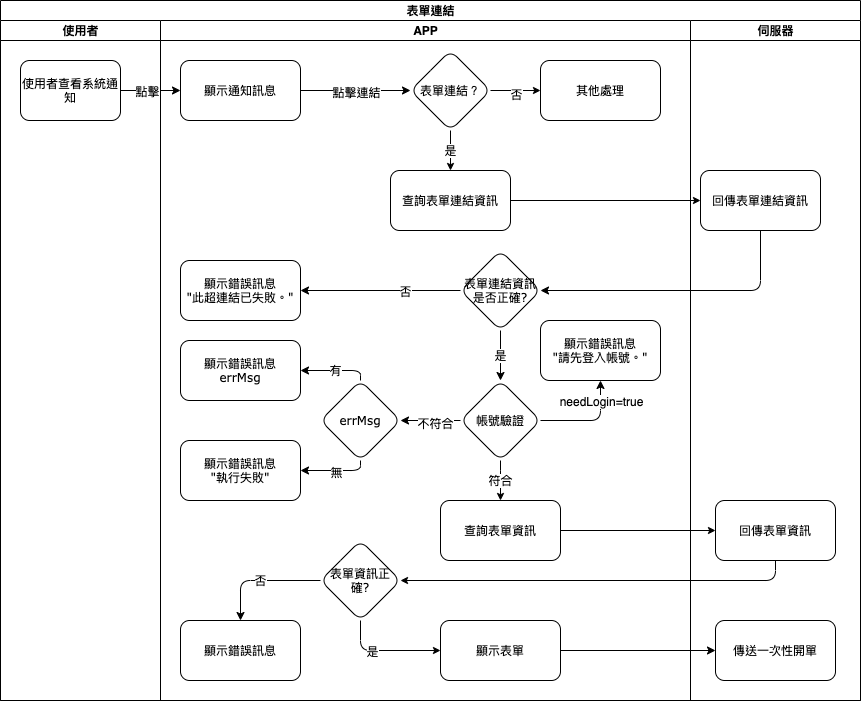
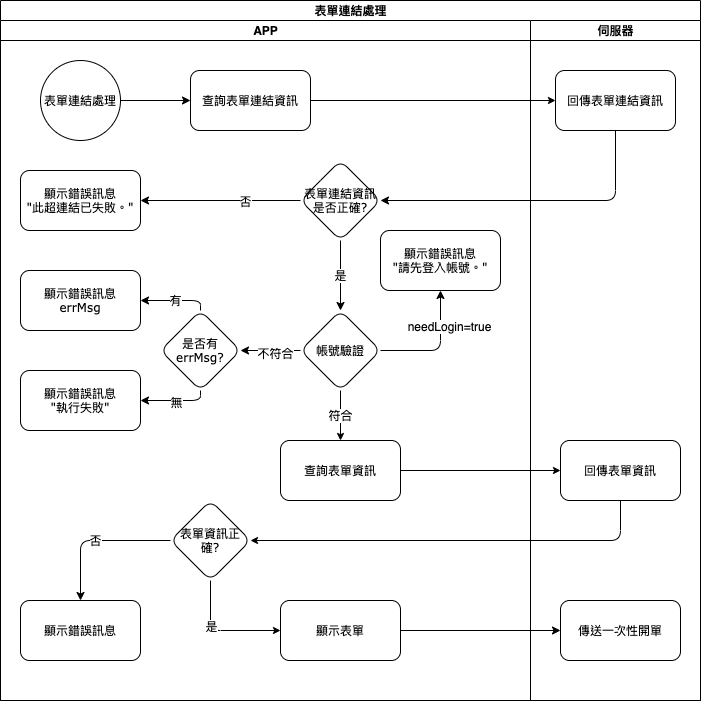
修改超連結流程

diff --git a/8.10.0/UPDATE/ITEM_2/MAE/notification_formlink.md b/8.10.0/UPDATE/ITEM_2/MAE/notification_formlink.md
@@ -23,6 +23,12 @@
 
 #### <div id="workflow">作業流程</div>
 
+  * 超連結處理
+  
+  ![Notification form link](./image/workflow_hyperlink.png)
+
+  * 超連結表單處理
+  
   ![Notification form link](./image/workflow_formlink.png)
 
 #### <div id="attachment">附件</div>

diff --git a/8.10.0/UPDATE/ITEM_2/MAE/notification_buttonlink.md b/8.10.0/UPDATE/ITEM_2/MAE/notification_buttonlink.md
@@ -28,4 +28,10 @@
 
 #### <div id="workflow">作業流程</div>
 
+  * 超連結處理
+  
+  ![Notification form link](./image/workflow_hyperlink.png)
+
+  * 超連結按鍵處理
+  
   ![Notification button link](./image/workflow_buttonlink.png)

diff --git a/8.10.0/UPDATE/ITEM_2/MAE/notification_message.md b/8.10.0/UPDATE/ITEM_2/MAE/notification_message.md
@@ -27,3 +27,7 @@
   * 表單畫面
     
     ![Notification message](./image/notification_detail.png)
+
+#### <div id="workflow">作業流程</div>
+
+  ![Notification Hyperlink](./image/workflow_hyperlink.png)
